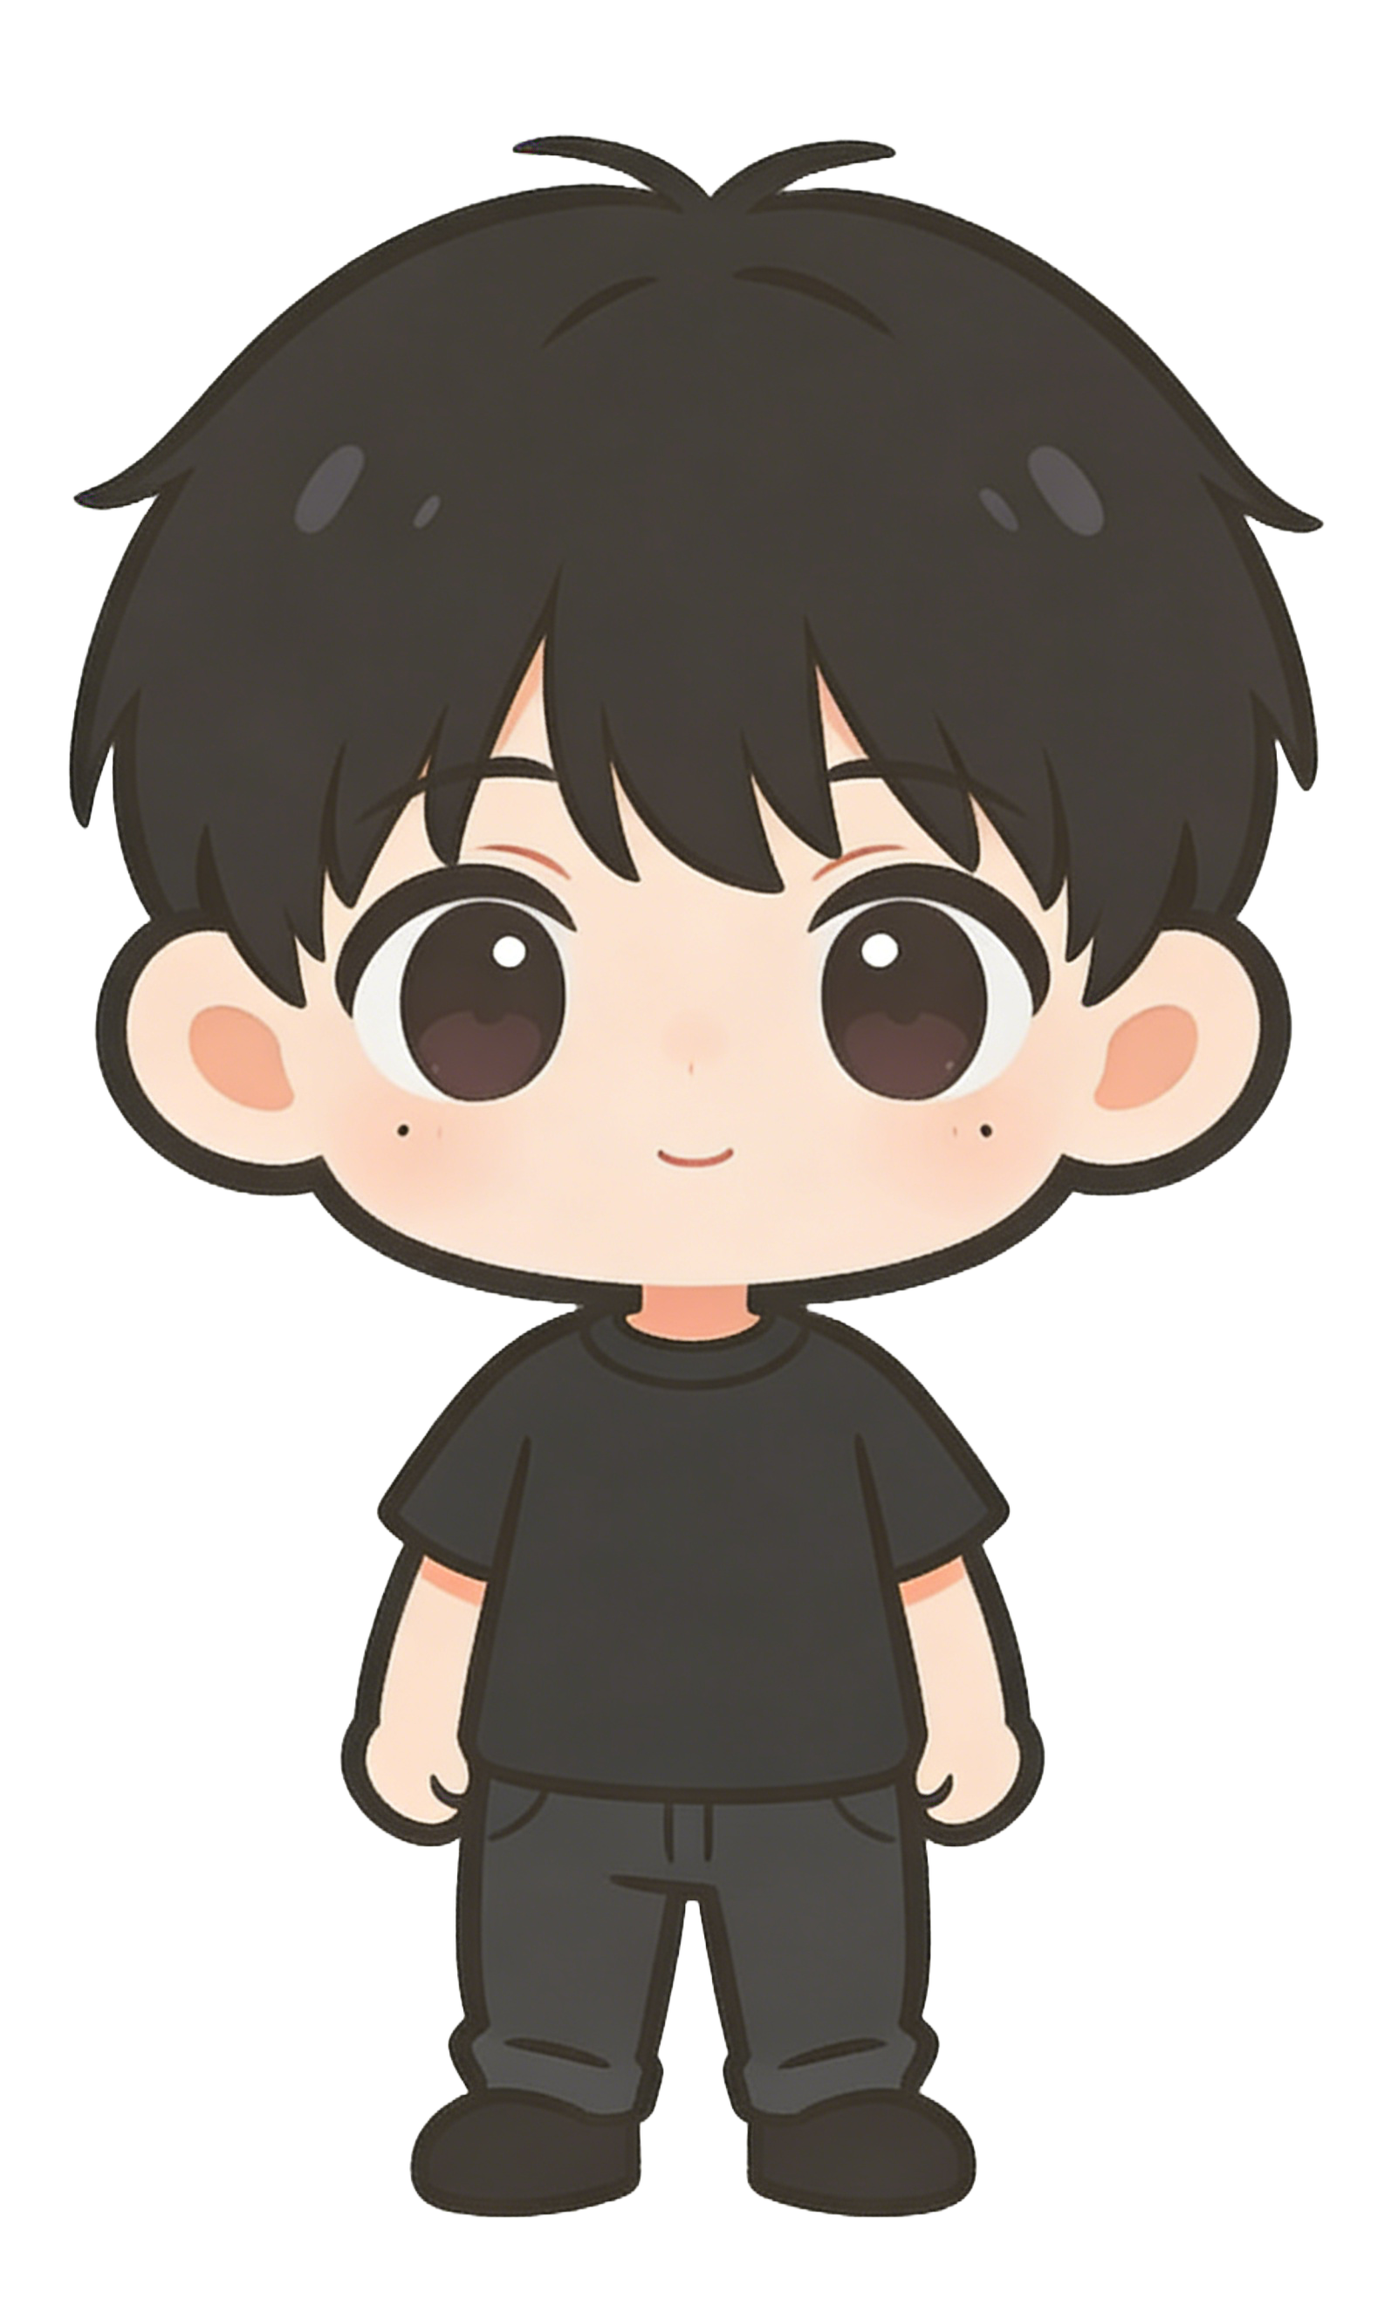
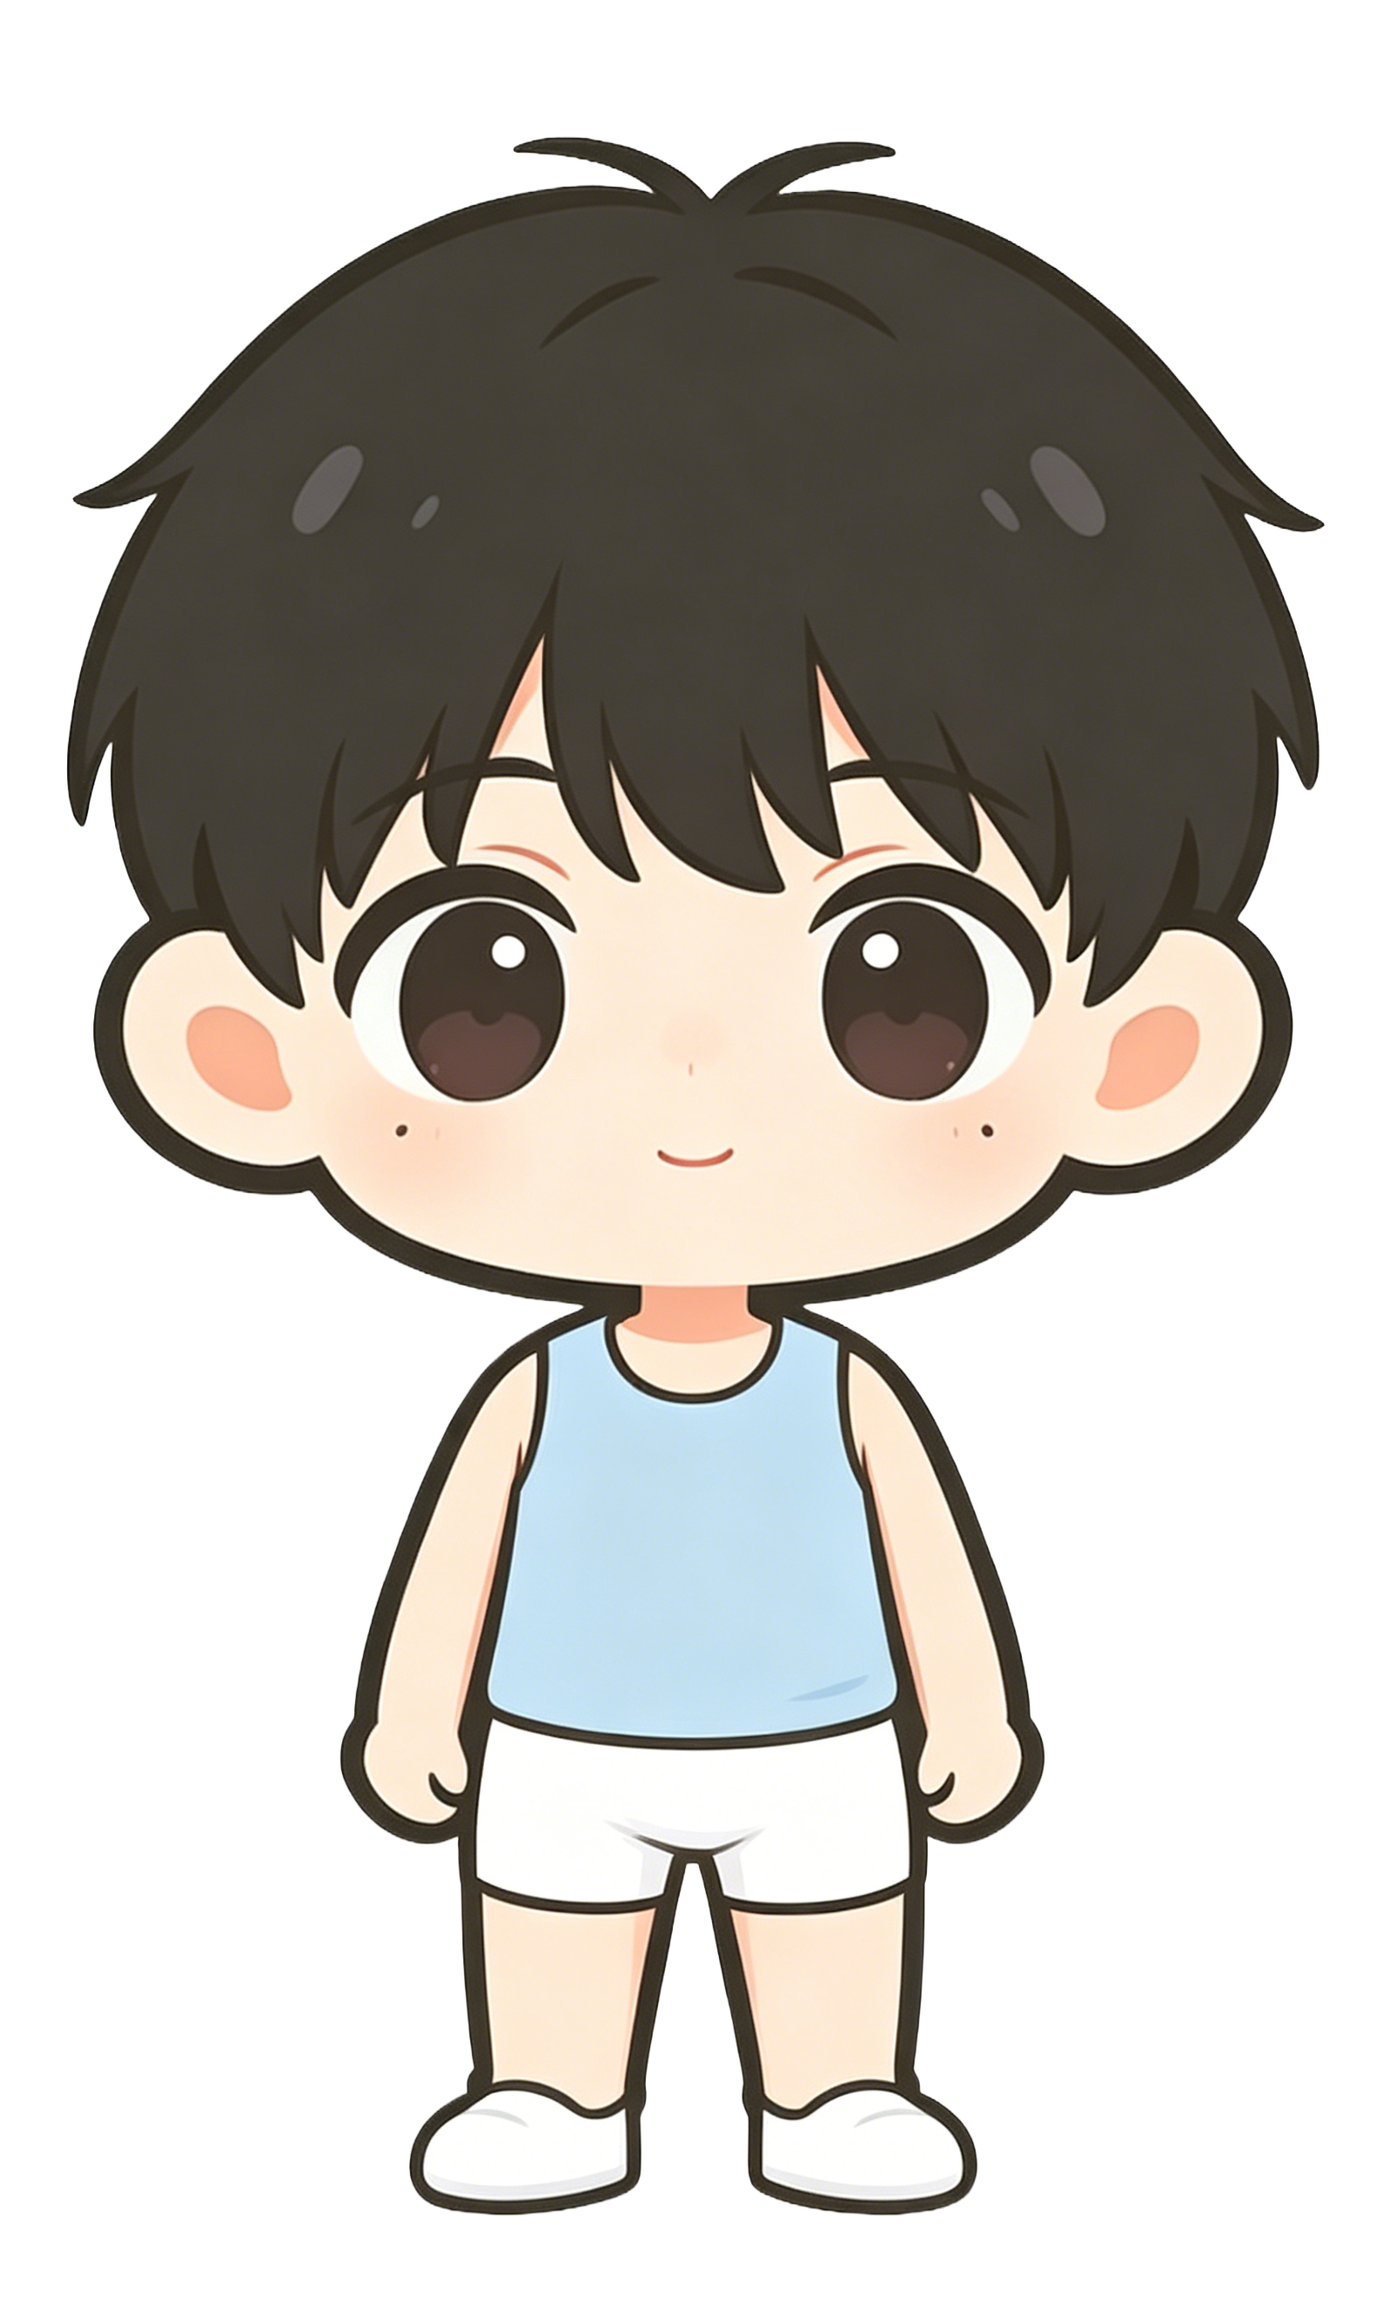
redesign outfit implementation logic

diff --git a/game.js b/game.js
@@ -14,7 +14,7 @@ const defaultState = {
   mood:     80,
   hunger:   60,
   energy:   70,
-  bond:     0,
+  bond:     1,
   coins:    200,
   outfit:   'default',
   lastTick: Date.now(),
@@ -30,6 +30,20 @@ const defaultState = {
   dailyTasks: { date: '', loginClaimed: false, feeds: 0, feedsClaimed: false, dressed: false, dressClaimed: false },
 };
 
+// ─── Expression sprites map ────────────────────
+// Maps expression key → filename in assets/characters/
+const EXPRESSION_SPRITES = {
+  happy:       'char_happy.png',
+  normal:      'char_normal.png',
+  cold:        'char_sad.png',
+  sad:         'char_sad.png',
+  disgusted:   'char_disgusted.png',
+  pouty_tired: 'char_pouty_tired.png',
+  pouty_mood:  'char_pouty_mood.png',
+  chew1:       'char_chew1.png',
+  chew2:       'char_chew2.png',
+};
+
 // ─── Global state ──────────────────────────────
 let G = loadState();
 let speechTimer  = null;
@@ -38,6 +52,8 @@ let _lastBgSlot  = null; // tracks current background time slot
 let outingTimer  = null; // countdown interval reference
 let _currentOutingEvent  = null;
 let _currentOutingReward = null;
+let _chewTimer   = null; // chewing animation interval
+let _chewTimeout = null; // chewing animation stop timeout
 
 // ─── Data: Foods ──────────────────────────────
 const FOODS = [
@@ -57,11 +73,15 @@ const FOODS = [
 ];
 
 // ─── Data: Outfits ─────────────────────────────
+// ── 开发者在此处新增衣服 ─────────────────────────
+// thumb:      衣服卡片缩略图路径（null 则显示 thumbEmoji）
+// thumbEmoji: 缩略图加载失败时的 emoji 降级
+// overlay:    无头身体+衣服蒙版路径（null 则不叠加）
+// unlockBond: 解锁所需羁绊值
 const OUTFITS = [
-  { id:'default',  name:'日常便服',   sprite:'char_normal.png',   unlockBond:0,  desc:'清爽自然' },
-  { id:'casual',   name:'私服',       sprite:'char_casual.png',   unlockBond:20, desc:'羁绊20解锁' },
-  { id:'birthday', name:'生日限定',   sprite:'char_birthday.png', unlockBond:50, desc:'羁绊50解锁' },
-  { id:'concert',  name:'演唱会造型', sprite:'char_concert.png',  unlockBond:80, desc:'羁绊80解锁' },
+  { id:'default',  name:'原装',     thumbEmoji:'🐧', thumb:null,                                  overlay:null,                                     unlockBond:0,  desc:'清爽自然' },
+  { id:'overalls', name:'背带裤',   thumbEmoji:'👖', thumb:'assets/outfits/overalls_thumb.png',  overlay:'assets/characters/overalls_overlay.png', unlockBond:0,  desc:'清爽可爱' },
+  { id:'trendy',   name:'潮男衣服', thumbEmoji:'🧥', thumb:'assets/outfits/trendy_thumb.png',    overlay:'assets/characters/trendy_overlay.png',   unlockBond:0, desc:'羁绊20解锁' },
 ];
 
 // ─── Data: Dialogue ────────────────────────────
@@ -134,6 +154,7 @@ const OUTING_EVENTS = [
 window.addEventListener('DOMContentLoaded', () => {
   resetDailyTasksIfNeeded();
   applyOfflineDecay();
+  checkBondUnlocks(true); // ensure bond-0 outfits are unlocked on every load
   handleDailyLogin();
   buildFoodGrid();
   buildOutfitGrid();
@@ -283,14 +304,17 @@ function feedFood(foodId) {
   closePanel();
 
   if (food.type === 'liked') {
-    animSprite('bounce');
+    setCharExpression('happy');
     showSpeech(`${food.emoji || '😋'} 好吃！最喜欢了～`);
+    startChewing('happy');        // chewing ends → stay happy until next renderAll
   } else if (food.type === 'disliked') {
-    animSprite('shake');
+    setCharExpression('disgusted');
     showSpeech(`${food.emoji || '😣'} 呜…不喜欢这个…`);
+    startChewing(null);           // chewing ends → renderAll restores mood expression
   } else {
-    animSprite('spin');
+    setCharExpression(moodExpr());
     showSpeech(`${food.emoji || '🍞'} 谢谢投喂～`);
+    startChewing(null);
   }
 }
 
@@ -334,12 +358,9 @@ function showOutingBlocked(reason) {
   document.getElementById('outing-blocked-text').textContent = text;
   dialog.classList.remove('hidden');
 
-  // Pick sprite: tired (体力不足) vs pouty (心情不足)
-  const spriteName = reason === 'tired' ? 'char_pouty_tired.png' : 'char_pouty_mood.png';
-  const sprite = document.getElementById('char-sprite');
-  const testImg = new Image();
-  testImg.onload = () => { sprite.src = `assets/characters/${spriteName}`; };
-  testImg.src = `assets/characters/${spriteName}`;
+  // Pick expression: tired (体力不足) vs pouty (心情不足)
+  const exprKey = reason === 'tired' ? 'pouty_tired' : 'pouty_mood';
+  setCharExpression(exprKey);
 
   setTimeout(() => {
     dialog.classList.add('hidden');
@@ -484,6 +505,77 @@ function interact() {
 function toggleMusic() {}
 
 // ──────────────────────────────────────────────
+//   CHARACTER EXPRESSION & OUTFIT OVERLAY
+// ──────────────────────────────────────────────
+
+/** Set the bottom-layer expression image without touching the outfit overlay. */
+function setCharExpression(key) {
+  const file   = EXPRESSION_SPRITES[key] || 'char_normal.png';
+  const src    = `assets/characters/${file}`;
+  const sprite  = document.getElementById('char-sprite');
+  const fallback = document.getElementById('char-fallback');
+  if (!sprite) return;
+
+  const testImg = new Image();
+  testImg.onload = () => {
+    sprite.src = src;
+    sprite.classList.remove('hidden');
+    fallback?.classList.add('hidden');
+  };
+  testImg.onerror = () => {
+    // Fall back to char_normal.png, then emoji
+    const norm = new Image();
+    norm.onload  = () => { sprite.src = 'assets/characters/char_normal.png'; sprite.classList.remove('hidden'); fallback?.classList.add('hidden'); };
+    norm.onerror = () => { sprite.classList.add('hidden'); fallback?.classList.remove('hidden'); };
+    norm.src = 'assets/characters/char_normal.png';
+  };
+  testImg.src = src;
+}
+
+/** Show or hide the outfit overlay image above the character. */
+function applyOutfitOverlay(outfitId) {
+  const outfit = OUTFITS.find(o => o.id === outfitId);
+  const el = document.getElementById('char-outfit-overlay');
+  if (!el) return;
+  if (outfit && outfit.overlay) {
+    el.src = outfit.overlay;
+    el.style.display = 'block';
+  } else {
+    el.src = '';
+    el.style.display = 'none';
+  }
+}
+
+// ──────────────────────────────────────────────
+//   CHEWING ANIMATION
+// ──────────────────────────────────────────────
+
+/**
+ * Alternate chew1/chew2 frames to create a chewing animation.
+ * @param {string|null} afterExprKey — expression to restore after chewing ends
+ *                                     (null = call renderAll to restore mood-based expr)
+ * @param {number} duration — animation duration in ms (default 3000)
+ */
+function startChewing(afterExprKey = null, duration = 3000) {
+  stopChewing();
+  let frame = 0;
+  _chewTimer = setInterval(() => {
+    frame = 1 - frame;
+    setCharExpression(frame === 0 ? 'chew1' : 'chew2');
+  }, 350);
+  _chewTimeout = setTimeout(() => {
+    stopChewing();
+    if (afterExprKey) setCharExpression(afterExprKey);
+    else renderAll();
+  }, duration);
+}
+
+function stopChewing() {
+  if (_chewTimer)   { clearInterval(_chewTimer);   _chewTimer   = null; }
+  if (_chewTimeout) { clearTimeout(_chewTimeout);  _chewTimeout = null; }
+}
+
+// ──────────────────────────────────────────────
 //   RENDER
 // ──────────────────────────────────────────────
 function renderAll() {
@@ -507,30 +599,10 @@ function renderAll() {
   document.getElementById('mini-energy-val').textContent = Math.round(G.energy) + '%';
   document.getElementById('mini-mood-val').textContent   = Math.round(G.mood)   + '%';
 
-  // Character sprite — with graceful fallback
-  const sprite   = document.getElementById('char-sprite');
-  const fallback = document.getElementById('char-fallback');
-  const outfitData = OUTFITS.find(o => o.id === G.outfit);
-  const spriteSrc = (G.outfit !== 'default' && outfitData)
-    ? `assets/characters/${outfitData.sprite}`
-    : `assets/characters/char_${expr}.png`;
-
-  const testImg = new Image();
-  testImg.onload = () => {
-    sprite.src = spriteSrc;
-    sprite.classList.remove('hidden');
-    fallback?.classList.add('hidden');
-  };
-  testImg.onerror = () => {
-    // Try char_normal.png as universal fallback
-    const norm = new Image();
-    norm.onload  = () => { sprite.src = 'assets/characters/char_normal.png'; sprite.classList.remove('hidden'); fallback?.classList.add('hidden'); };
-    norm.onerror = () => { sprite.classList.add('hidden'); fallback?.classList.remove('hidden'); };
-    norm.src = 'assets/characters/char_normal.png';
-  };
-  testImg.src = spriteSrc;
-
-  // (avatar removed from top bar)
+  // Character expression (bottom layer) + outfit overlay (top layer).
+  // Skip expression update while chewing animation is running.
+  if (!_chewTimer) setCharExpression(expr);
+  applyOutfitOverlay(G.outfit);
 
   // Context label
   document.getElementById('context-label').textContent =
@@ -580,13 +652,16 @@ function buildOutfitGrid() {
     const active   = G.outfit === outfit.id;
     const div = document.createElement('div');
     div.className = `outfit-item${active ? ' active' : ''}${!unlocked ? ' locked' : ''}`;
+
+    // Emoji is always the base layer (always visible).
+    // Thumbnail image is absolutely positioned on top; if it fails the emoji shows through.
     div.innerHTML = `
-      <img class="outfit-img" src="assets/characters/${outfit.sprite}" alt="${outfit.name}"
-           onerror="this.replaceWith(Object.assign(document.createElement('div'), {
-             className:'outfit-img', style:'font-size:60px;line-height:130px;text-align:center',
-             textContent:'👤'
-           }))" />
-      <span class="outfit-name">${active ? '✓ ' : ''}${outfit.name}</span>
+      <div class="outfit-thumb-wrap">
+        <span class="outfit-emoji">${outfit.thumbEmoji}</span>
+        ${outfit.thumb ? `<img class="outfit-thumb-img" src="${outfit.thumb}" alt="${outfit.name}">` : ''}
+        ${active ? '<span class="outfit-check">✓</span>' : ''}
+      </div>
+      <span class="outfit-name">${outfit.name}</span>
       <span class="outfit-unlock">${unlocked ? (active ? '当前穿着' : '点击穿着') : outfit.desc}</span>
     `;
     div.addEventListener('click', () => equipOutfit(outfit.id));

diff --git a/style.css b/style.css
@@ -286,13 +286,18 @@ body {
   border-top-color: rgba(255,255,250,0.97);
 }
 
-/* Character sprite wrapper */
+/* Character sprite wrapper — grid layout so both layers share the same cell */
 #char-sprite-wrap {
   position: relative;
-  display: flex;
-  align-items: center;
-  justify-content: center;
+  display: grid;
+  place-items: end center;  /* anchor both images to bottom-center */
   cursor: pointer;
+}
+
+/* Both images sit in the same grid cell, stacked */
+#char-sprite,
+#char-outfit-overlay {
+  grid-area: 1 / 1;
 }
 
 /* Character sprite */
@@ -301,13 +306,28 @@ body {
   height: auto;
   display: block;
   cursor: pointer;
-  /* mix-blend-mode: multiply makes white PNG backgrounds transparent
-     against any colored backdrop — safe to remove if sprites have true transparency */
   mix-blend-mode: normal;
   filter: drop-shadow(0 14px 20px rgba(0,0,0,0.45));
   transition: transform 0.2s ease;
+  z-index: 1;   /* explicit layer — outfit overlay sits above this */
 }
 #char-sprite:active, #char-fallback:active { transform: scale(0.95); }
+
+/*
+ * Outfit overlay — headless clothing image, same size as char-sprite.
+ * z-index: 2 ensures it always paints above the sprite even when
+ * the sprite's filter property creates a new stacking context.
+ * JS sets display:block + src when an outfit is worn; hidden otherwise.
+ */
+#char-outfit-overlay {
+  width: 200px;
+  height: auto;
+  object-fit: contain;
+  z-index: 2;
+  object-position: bottom;
+  pointer-events: none;
+  display: none;
+}
 
 /* Emoji fallback when image missing */
 #char-fallback {
@@ -718,7 +738,7 @@ body {
   display: flex;
   flex-direction: column;
   align-items: center;
-  gap: 6px;
+  gap: 8px;
   cursor: pointer;
   border-radius: 16px;
   padding: 12px;
@@ -728,9 +748,50 @@ body {
 }
 .outfit-item.active  { border-color: var(--c-purple); background: #eef0fb; }
 .outfit-item.locked  { opacity: 0.45; cursor: not-allowed; }
-.outfit-img {
-  width: 90px; height: 130px;
+
+/*
+ * Outfit thumbnail card — emoji is always the base layer (always visible).
+ * The image is absolutely positioned on top; if it fails to load the emoji shows.
+ */
+.outfit-thumb-wrap {
+  position: relative;
+  width: 80px;
+  height: 80px;
+  border-radius: 12px;
+  background: rgba(215,238,246,0.5);
+  display: flex;
+  align-items: center;
+  justify-content: center;
+  overflow: hidden;
+}
+.outfit-thumb-wrap .outfit-emoji {
+  font-size: 38px;
+  line-height: 1;
+}
+.outfit-thumb-img {
+  position: absolute;
+  inset: 0;
+  width: 100%;
+  height: 100%;
   object-fit: contain;
+  /* Hide broken-image icon when load fails */
+  color: transparent;
+}
+/* Selected checkmark badge */
+.outfit-check {
+  position: absolute;
+  top: 3px;
+  right: 3px;
+  width: 18px;
+  height: 18px;
+  background: var(--c-purple);
+  color: #fff;
+  border-radius: 50%;
+  font-size: 11px;
+  font-weight: 900;
+  display: flex;
+  align-items: center;
+  justify-content: center;
 }
 .outfit-name   { font-size: 12px; font-weight: 800; color: var(--c-text-dark); text-align: center; }
 .outfit-unlock { font-size: 10px; color: #999; text-align: center; }

diff --git a/index.html b/index.html
@@ -87,10 +87,13 @@
 
       <!-- Character sprite wrapper (handles image fallback gracefully) -->
       <div id="char-sprite-wrap">
+        <!-- Layer 1 (bottom): full-body expression image, changes per mood/state -->
         <img id="char-sprite"
              src="assets/characters/char_normal.png"
              alt=""
              onclick="interact()" />
+        <!-- Layer 2 (top): headless clothing overlay, same dimensions, hidden when no outfit worn -->
+        <img id="char-outfit-overlay" src="" alt="" />
         <div id="char-fallback" class="hidden" onclick="interact()">🐧</div>
       </div>
 
